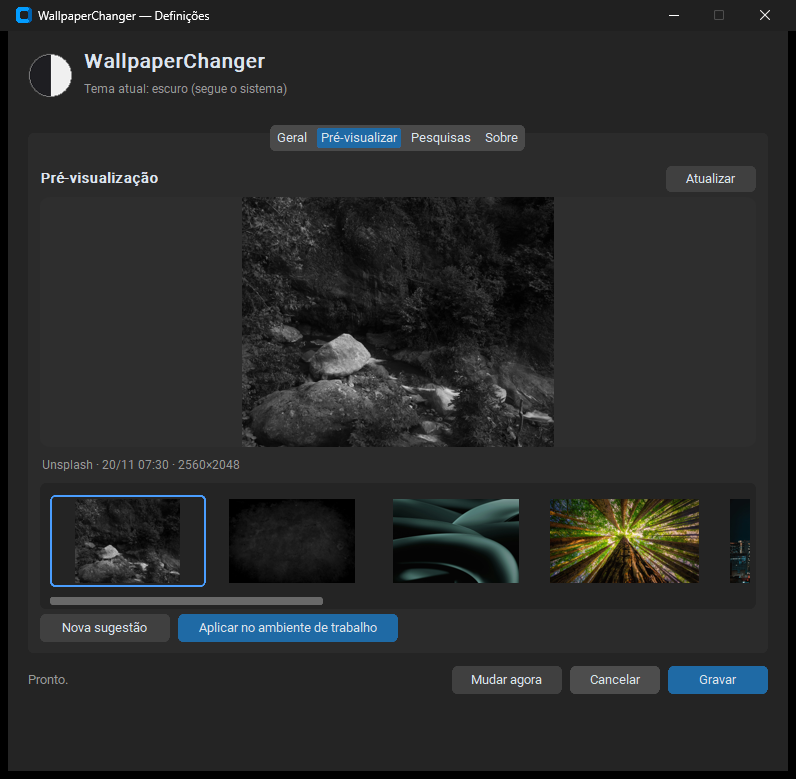
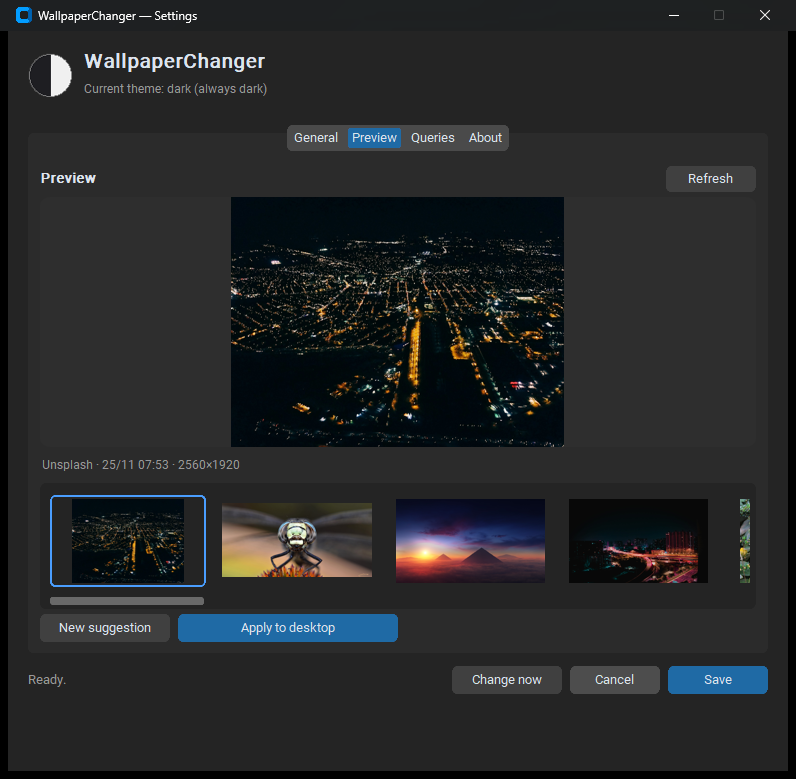
docs: translate GitHub project page and screenshots to English
- Regenerate all eight documentation screenshots with the English UI (dark and light), including the new Language selector; rename screenshot-pesquisas/-sobre to screenshot-queries/-about.
- screenshot_ui.py now defaults to the English locale (WPC_SHOT_LANG=pt keeps the Portuguese ones) and uses translated tab names.
- GitHub repo description, topics and website link set in English; v2.4.0 and v2.3.0 release notes rewritten in English.
- Update README image links and CHANGELOG Unreleased section.

diff --git a/scripts/screenshot_ui.py b/scripts/screenshot_ui.py
@@ -15,8 +15,9 @@ except Exception:  # noqa: BLE001 - DPI awareness is optional in this script
 import customtkinter as ctk
 from PIL import Image
 
-from wallpaper_changer import config
+from wallpaper_changer import config, i18n
 from wallpaper_changer.app import open_image_folder, status_text
+from wallpaper_changer.i18n import t
 from wallpaper_changer.ui import SettingsWindow
 
 # --- Win32 declarations with correct types (64-bit) -----------------------
@@ -100,7 +101,10 @@ def grab_window(hwnd: int) -> Image.Image:
 def main() -> None:
     config.load_settings()
     # Never capture real keys for repository screenshots
-    config._settings["unsplash_key"] = "exemplo-chave-falsa-000000000000"
+    config._settings["unsplash_key"] = "example-fake-key-000000000000"
+    # The repository is in English, so screenshots default to the English UI;
+    # WPC_SHOT_LANG=pt regenerates the Portuguese ones.
+    i18n.set_language(os.environ.get("WPC_SHOT_LANG", "en"))
     light = bool(os.environ.get("WPC_SHOT_LIGHT"))
     if light:
         ctk.set_appearance_mode("light")
@@ -132,10 +136,10 @@ def main() -> None:
         time.sleep(0.1)
 
     for tab, filename in (
-        ("Geral", "docs/screenshot%s.png" % suffix),
-        ("Pré-visualizar", "docs/screenshot-preview%s.png" % suffix),
-        ("Pesquisas", "docs/screenshot-pesquisas%s.png" % suffix),
-        ("Sobre", "docs/screenshot-sobre%s.png" % suffix),
+        (t("Geral"), "docs/screenshot%s.png" % suffix),
+        (t("Pré-visualizar"), "docs/screenshot-preview%s.png" % suffix),
+        (t("Pesquisas"), "docs/screenshot-queries%s.png" % suffix),
+        (t("Sobre"), "docs/screenshot-about%s.png" % suffix),
     ):
         win.tabs.set(tab)
         for _ in range(8):

diff --git a/CHANGELOG.md b/CHANGELOG.md
@@ -22,6 +22,10 @@ and the project uses [Semantic Versioning](https://semver.org/).
   `.gitignore` comments, `pyproject.toml` metadata and ruff comments, all
   module/function docstrings and inline comments, log messages, build scripts
   and test messages. Commit messages and the changelog were already in English.
+- **The GitHub project page is in English too**: repository description,
+  topics and website link; release notes rewritten in English; all eight
+  documentation screenshots regenerated with the English UI (and renamed to
+  English filenames). `WPC_SHOT_LANG=pt` still regenerates Portuguese shots.
 - The Portuguese UI strings remain in the code on purpose: they are the
   source locale of the `pt`/`en` translation catalog.
 

diff --git a/README.md b/README.md
@@ -51,7 +51,7 @@ window.
 
 | Preview | Queries | About |
 |---|---|---|
-| ![Preview](docs/screenshot-preview.png) | ![Queries](docs/screenshot-pesquisas.png) | ![About](docs/screenshot-sobre.png) |
+| ![Preview](docs/screenshot-preview.png) | ![Queries](docs/screenshot-queries.png) | ![About](docs/screenshot-about.png) |
 
 ## Installation
 
